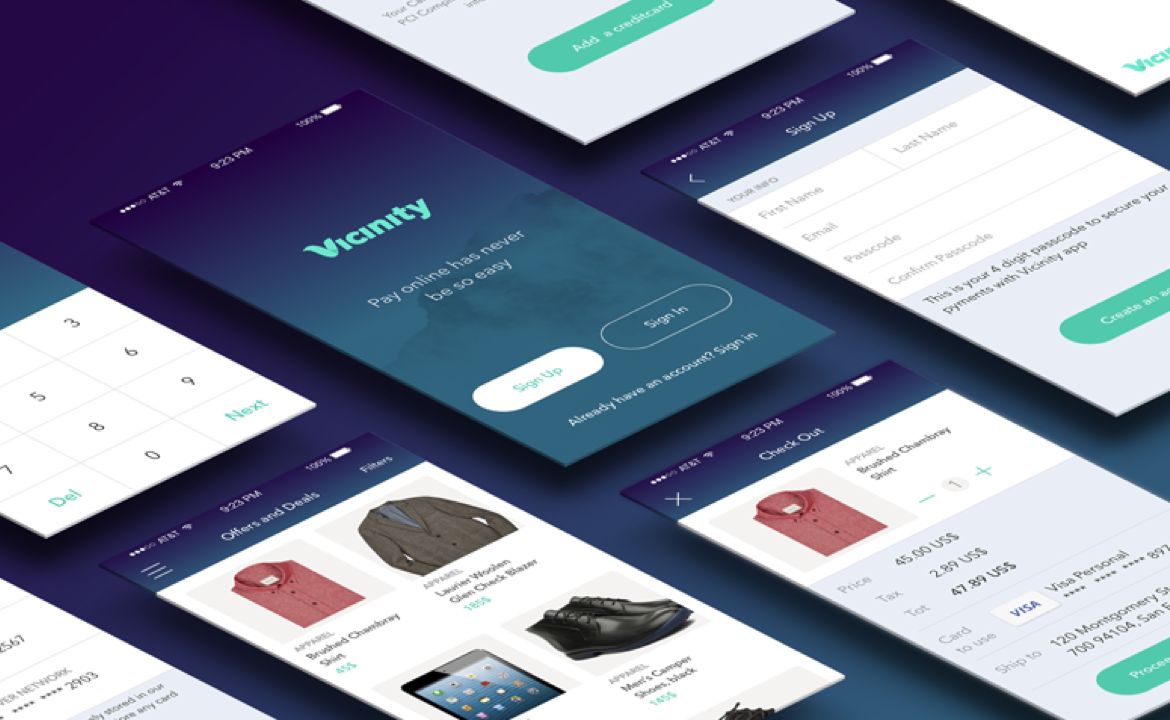
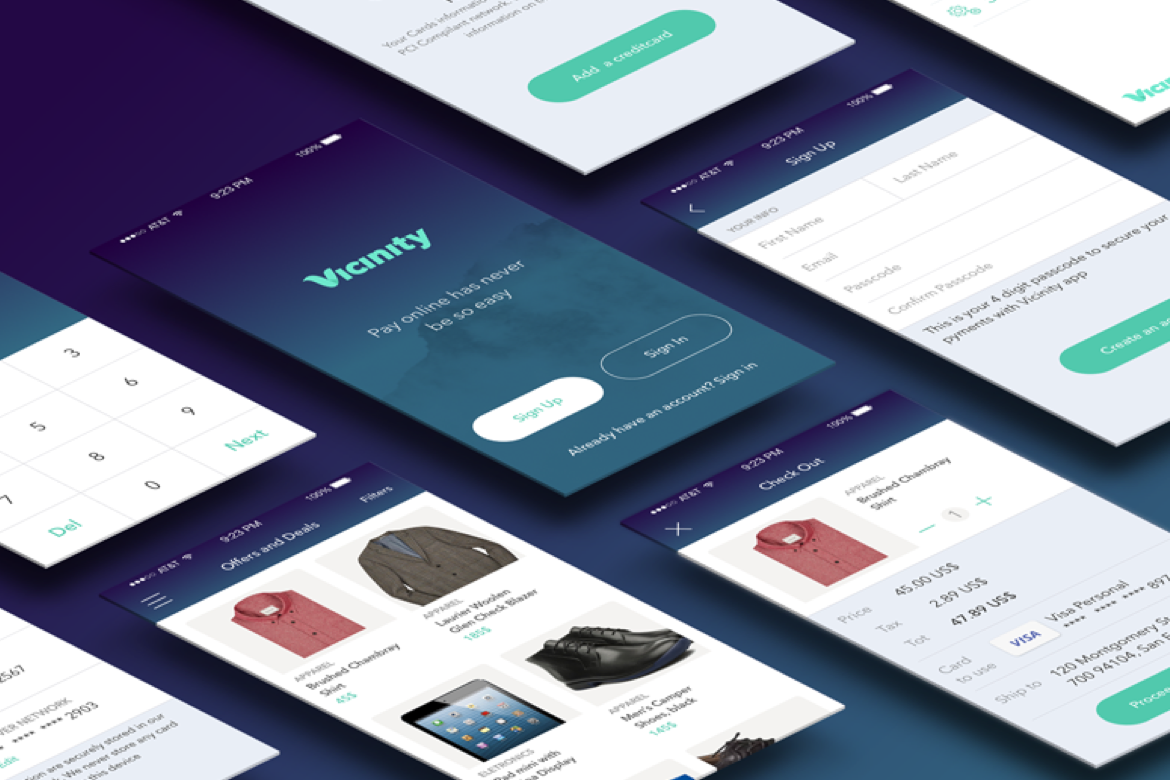
Changed work images and partially layout

diff --git a/minimal/work.html b/minimal/work.html
@@ -55,6 +55,7 @@
     <div class="line cf">
         <div class="special size2of8">
             <img class="work" src="img/4.png" alt="">
+            <img class="work extra" src="img/4b.png" alt="">
         </div>
         <div class="special size4of8">
             <img class="work" src="img/5.png" alt="">

diff --git a/minimal/style.css b/minimal/style.css
@@ -220,7 +220,7 @@ ul {
 	margin-top: 9.0625em;
 }
 
-.second-line {
+.second-line, .extra {
 
 	margin-top: 2em;
 }
